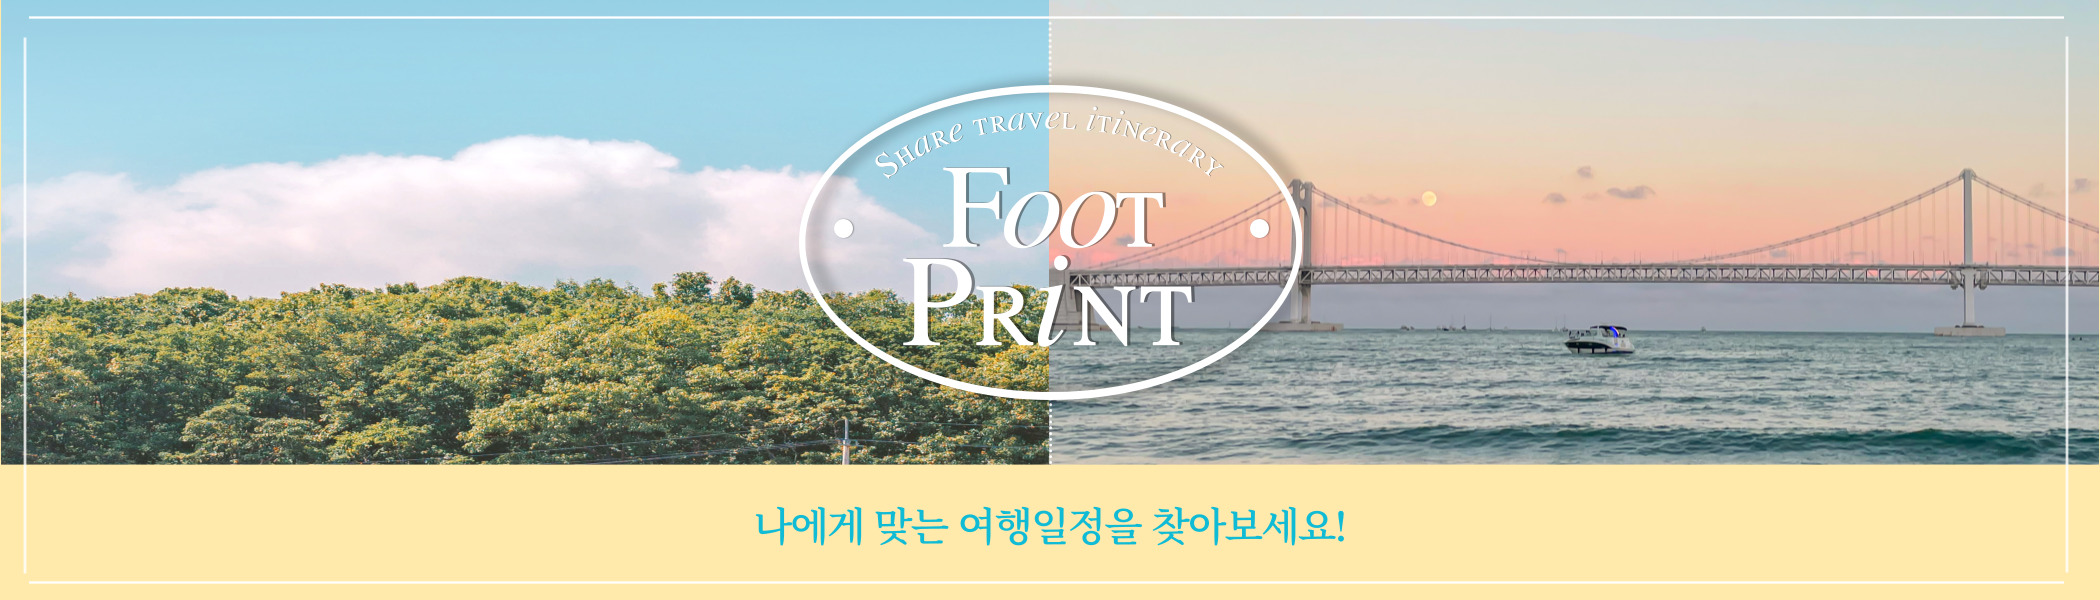
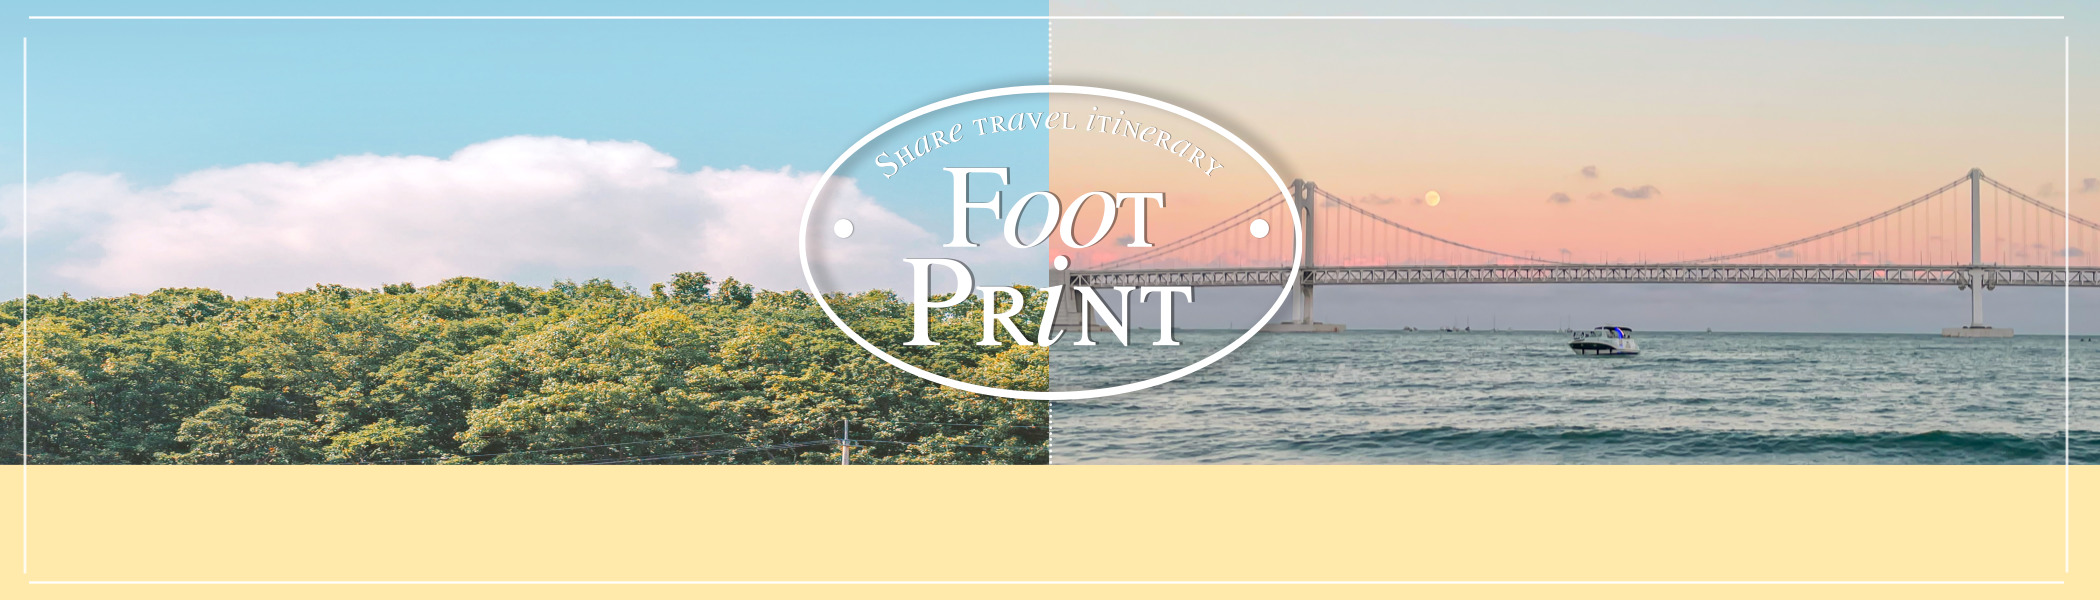
style: 간단한 애니메이션 추가 및 배너 클릭시 여행일정 공유 페이지로 이동

diff --git a/src/pages/MainPage/MainPage.tsx b/src/pages/MainPage/MainPage.tsx
@@ -1,7 +1,7 @@
 import React, { useEffect, useState } from "react"
 import axios from "axios" // API 요청을 위해 axios를 사용합니다.
 import { Box, Divider, Text } from "@chakra-ui/react"
-import { BannerStyle, CardListBox, Title, TitleBox } from "./MainPage.style" // 스타일을 임포트합니다.
+import { BannerStyle, CardListBox, Title, TitleBox, TypingText } from "./MainPage.style" // 스타일을 임포트합니다.
 import ReviewsGallery from "./ReviewsGallery" // ReviewsGallery 컴포넌트를 임포트합니다.
 import { ReviewTitle } from "./ReviewGallery.style" // 스타일을 임포트합니다.
 import CardItem from "@/components/Card/CardItem"
@@ -27,16 +27,16 @@ const MainPage: React.FC = () => {
 
     fetchSchedules()
   }, [])
+  const handleBannerClick = () => {
+    navigate("/schedule_share") // 이동할 경로
+  }
 
   return (
     <>
-      <BannerStyle>
-        <video autoPlay muted loop width="100%">
-          <source src="/mainImagePlay.mp4" type="video/mp4" />
-          Your browser does not support the video tag.
-        </video>
+      <BannerStyle onClick={handleBannerClick}>
+        <img src="/mainImage2.jpg" alt="main image" width={"100%"} />
+        <TypingText>나에게 맞는 여행 일정을 찾아보세요!</TypingText>
       </BannerStyle>
-
       <TitleBox>
         <Title>Latest Plans</Title>
         <Box display="flex" justifyContent="center" mt={4}>

diff --git a/src/pages/MainPage/MainPage.style.ts b/src/pages/MainPage/MainPage.style.ts
@@ -3,7 +3,43 @@ import styled from "styled-components"
 export const BannerStyle = styled.div`
   display: flex;
   justify-content: center;
+  position: relative; // 상대 위치 설정
+  cursor: pointer;
 `
+export const TypingText = styled.div`
+  font-size: 24px;
+  font-family: "Gowun Batang", serif;
+  font-weight: bold;
+  color: var(--chakra-colors-primary);
+  position: absolute;
+  bottom: 20px;
+  text-align: center;
+  left: 50%;
+  transform: translateX(-50%);
+  white-space: nowrap;
+  overflow: hidden;
+  width: 100%;
+
+  /* 텍스트가 튀는 효과를 위한 키 프레임 */
+  @keyframes bounce {
+    0%,
+    20%,
+    50%,
+    80%,
+    100% {
+      transform: translateX(-50%) translateY(0);
+    }
+    40% {
+      transform: translateX(-50%) translateY(-30px);
+    }
+    60% {
+      transform: translateX(-50%) translateY(-15px);
+    }
+  }
+
+  animation: bounce 2s infinite;
+`
+
 export const Title = styled.h1`
   margin-left: 20px;
   margin-top: 10px;

diff --git a/src/index.css b/src/index.css
@@ -1,5 +1,6 @@
 @import url("https://fonts.googleapis.com/css2?family=Courgette&display=swap");
 @import url("https://fonts.googleapis.com/css2?family=Noto+Sans+KR:wght@100..900&display=swap");
+@import url("https://fonts.googleapis.com/css2?family=Gowun+Batang&display=swap");
 
 body {
   margin: 0;
